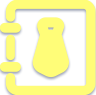
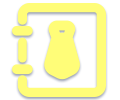
完善切图

diff --git a/src/static/style/comAvator.less b/src/static/style/comAvator.less
@@ -1,0 +1,19 @@
+.com-avator{
+    width: 102rpx;
+    height: 102rpx;
+    padding:6rpx;
+    border-radius: 50%;
[1 lines of base64/hex data omitted]
+     background-size:cover; 
+      background-repeat: no-repeat;
+      overflow: hidden;
+      display: flex;
+      justify-content: space-around;
+      align-items: center;
+      flex-shrink: 0;
+      image {
+      width:100%;
+      height:100%;
+       border-radius: 50%;
+  }
+  }

diff --git a/src/static/style/cardComItem.less b/src/static/style/cardComItem.less
@@ -38,4 +38,20 @@
       }
     }
   }
+  .card-com-item.used{
+    position: relative;
+    &::after{
+      content: "";
+      width: 121rpx;
+      height: 82rpx;
+      position: absolute;
+      top:0;
+      right: 0;
+      z-index: 99;
+      display: block;
[1 lines of base64/hex data omitted]
+      background-size:cover; 
+      background-repeat: no-repeat;
+    }
+  }
   
